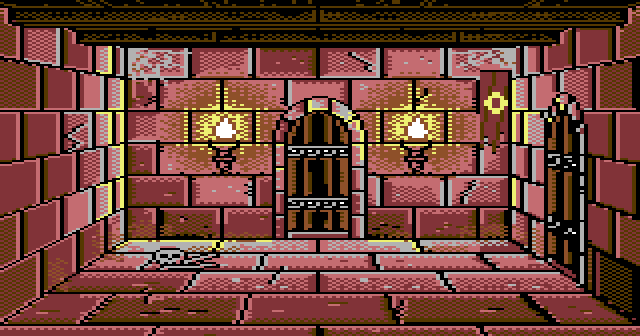
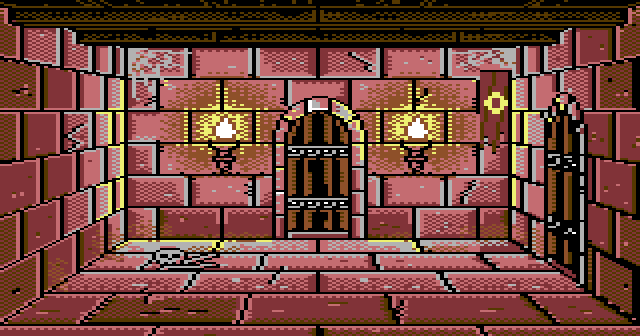
Catacombs rooms: grey stone levels, glow dim states, violet crypt theme, side-wall texture; GetWord runtime test

diff --git a/Catacombs/RoomArt.cs b/Catacombs/RoomArt.cs
@@ -1,34 +1,34 @@
 // Generated by art/room_art.py -- do not edit; change the script and run it again.
 using C64Lib;
 
-[assembly: RawImage(Resource = "room.img", Label = "Room")]   // 4162 bytes
-[assembly: RawImage(Resource = "door_n.img", Label = "DoorN")]   // 517 bytes
-[assembly: RawImage(Resource = "door_n2.img", Label = "DoorN2")]   // 258 bytes
-[assembly: RawImage(Resource = "door_n3.img", Label = "DoorN3")]   // 204 bytes
-[assembly: RawImage(Resource = "door_n4.img", Label = "DoorN4")]   // 139 bytes
-[assembly: RawImage(Resource = "door_w.img", Label = "DoorW")]   // 497 bytes
-[assembly: RawImage(Resource = "door_e.img", Label = "DoorE")]   // 484 bytes
-[assembly: RawImage(Resource = "door_s.img", Label = "DoorS")]   // 188 bytes
-[assembly: RawImage(Resource = "prop_chains.img", Label = "Chains")]   // 202 bytes
+[assembly: RawImage(Resource = "room.img", Label = "Room")]   // 4273 bytes
+[assembly: RawImage(Resource = "door_n.img", Label = "DoorN")]   // 501 bytes
+[assembly: RawImage(Resource = "door_n2.img", Label = "DoorN2")]   // 251 bytes
+[assembly: RawImage(Resource = "door_n3.img", Label = "DoorN3")]   // 216 bytes
+[assembly: RawImage(Resource = "door_n4.img", Label = "DoorN4")]   // 146 bytes
+[assembly: RawImage(Resource = "door_w.img", Label = "DoorW")]   // 516 bytes
+[assembly: RawImage(Resource = "door_e.img", Label = "DoorE")]   // 476 bytes
+[assembly: RawImage(Resource = "door_s.img", Label = "DoorS")]   // 190 bytes
+[assembly: RawImage(Resource = "prop_chains.img", Label = "Chains")]   // 201 bytes
 [assembly: RawImage(Resource = "prop_banner.img", Label = "Banner")]   // 162 bytes
 [assembly: RawImage(Resource = "prop_bones.img", Label = "Bones")]   // 115 bytes
 [assembly: RawImage(Resource = "prop_puddle.img", Label = "Puddle")]   // 199 bytes
-[assembly: RawImage(Resource = "prop_grate.img", Label = "Grate")]   // 157 bytes
+[assembly: RawImage(Resource = "prop_grate.img", Label = "Grate")]   // 155 bytes
 [assembly: RawImage(Resource = "flame0.img", Label = "Flame0")]   // 54 bytes
 [assembly: RawImage(Resource = "flame1.img", Label = "Flame1")]   // 54 bytes
 [assembly: RawImage(Resource = "flame2.img", Label = "Flame2")]   // 54 bytes
-[assembly: RawImage(Resource = "glow00.img", Label = "Glow00")]   // 40 bytes
-[assembly: RawImage(Resource = "glow01.img", Label = "Glow01")]   // 47 bytes
-[assembly: RawImage(Resource = "glow02.img", Label = "Glow02")]   // 47 bytes
+[assembly: RawImage(Resource = "glow00.img", Label = "Glow00")]   // 44 bytes
+[assembly: RawImage(Resource = "glow01.img", Label = "Glow01")]   // 51 bytes
+[assembly: RawImage(Resource = "glow02.img", Label = "Glow02")]   // 51 bytes
 [assembly: RawImage(Resource = "glow10.img", Label = "Glow10")]   // 41 bytes
-[assembly: RawImage(Resource = "glow11.img", Label = "Glow11")]   // 45 bytes
-[assembly: RawImage(Resource = "glow12.img", Label = "Glow12")]   // 45 bytes
+[assembly: RawImage(Resource = "glow11.img", Label = "Glow11")]   // 47 bytes
+[assembly: RawImage(Resource = "glow12.img", Label = "Glow12")]   // 49 bytes
 
 [assembly: RawAssembly(Asm = @"
 ; room themes: 16-byte colour tables for Screen.RemapCellColors (theme 0 = as drawn, no table)
 pal_Theme1     .byte 0,1,2,3,4,15,6,7,8,9,10,11,14,13,14,3   ; Cold
 pal_Theme2     .byte 0,1,2,3,4,8,9,7,8,9,10,2,10,13,14,15   ; Rust
-pal_Theme3     .byte 0,1,2,3,4,10,6,7,8,9,10,4,14,13,14,3   ; Crypt
+pal_Theme3     .byte 0,1,2,3,4,10,4,7,8,9,10,4,14,13,14,15   ; Crypt
 pal_Theme4     .byte 0,1,2,3,4,9,9,7,8,9,10,12,15,13,14,1   ; Bone
 ; pictures and tables by index (see DungeonView.cs): doors, props, door opening, flames,
 ; glow states of torch 0 and of torch 1, theme tables 1..

diff --git a/Catacombs/art/room_art.py b/Catacombs/art/room_art.py
@@ -205,7 +205,7 @@ def sample(sx, sy, cfg):
         course = int(v // 16.0)
         off = 16.0 if course & 1 else 0.0
         idx = int((u + off) // 32.0)
-        bias = -0.5 if course == 5 else 0.0
+        bias = -0.3 if course == 5 else 0.0
         return (('fw', course, idx), STONE, (u + off) % 32.0 / 2.0, v % 16.0, bias) + pos
     if s in ('left', 'right'):
         w, v = ZF - z, y - YC
@@ -216,7 +216,7 @@ def sample(sx, sy, cfg):
         course = int(v // 16.0)
         off = 0.0 if course & 1 else 16.0
         idx = int((w + off) // 32.0)
-        bias = -0.5 if course == 5 else 0.0
+        bias = -0.3 if course == 5 else 0.0
         return ((s, course, idx), STONE, (w + off) % 32.0 / 2.0, v % 16.0, bias) + pos
     if s == 'floor':
         u, w = x + XW, ZF - z
@@ -296,7 +296,7 @@ def wood_tex(a, b, rid):
 
 NORMALS = {'fw': (0, 0, -1), 'dn': (0, 0, -1), 'left': (1, 0, 0), 'dw': (1, 0, 0), 'right': (-1, 0, 0),
            'de': (-1, 0, 0), 'fl': (0, -1, 0), 'ce': (0, 1, 0), 'bf': (0, 0, -1.0001), 'bb': (0, 1, 0)}
-AMBIENT = {'fw': 0.135, 'dn': 0.135, 'left': 0.19, 'right': 0.19, 'dw': 0.19, 'de': 0.19,
+AMBIENT = {'fw': 0.165, 'dn': 0.165, 'left': 0.19, 'right': 0.19, 'dw': 0.19, 'de': 0.19,
            'fl': 0.20, 'ce': 0.13, 'bf': 0.17, 'bb': 0.10}
 
 
@@ -641,7 +641,9 @@ def render(cfg):
             elif fv_ == 1 or fh_ == 1:
                 tone = 1.0
             elif mat == STONE and rid[0] in PLAIN:
-                pass
+                d_ = TILES[hv % len(TILES)][int(tb) & 15][int(ta) & 15]
+                if d_ and min(lv_, lh_, fv_, fh_) > 2:
+                    tone = 2.0 + d_
             elif mat == STONE:
                 if lv_ == 2:
                     tone += 0.5
@@ -666,7 +668,7 @@ def render(cfg):
                     tone = 3.0
 
             sx, sy = 2 * mx + 1.0, my + 0.5
-            jitter = ((hv >> 8) % 100) / 100.0 * 0.7 - 0.35
+            jitter = ((hv >> 8) % 100) / 100.0 * 0.44 - 0.22
             hot = hot_light(sx, sy) if rid[0] == 'fw' else None
             if hot is not None:
                 ramp = HOT
@@ -838,7 +840,7 @@ THEMES = [
     ("Moss", theme()),                                   # the picture as drawn: grey stone, green moss
     ("Cold", theme(c12=14, c15=3, c5=15)),               # blue-grey stone, pale lichen
     ("Rust", theme(c6=9, c11=2, c12=10, c5=8)),          # red stone, rust stains
-    ("Crypt", theme(c11=4, c12=14, c15=3, c5=10)),       # violet crypt
+    ("Crypt", theme(c6=4, c11=4, c12=14, c5=10)),        # violet crypt
     ("Bone", theme(c6=9, c11=12, c12=15, c15=1, c5=9)),  # pale, dry stone
 ]
 PROPS = ['chains', 'banner', 'bones', 'puddle', 'grate']
@@ -978,10 +980,10 @@ def main():
     print("glow cells %s, %d re-encoded, room %d bytes" % ([len(g) for g in glow], moved, table[0][3]))
 
     def glow_colour(state, d):
-        if state == 1:                                    # flare: the inner ring turns yellow
-            return 7 if d <= 14 else 8
-        if state == 2:                                    # dim: the outer ring turns brown
-            return 9 if d > 14 else 8
+        if state == 1:                                    # dim: the outer ring turns brown
+            return 9 if d > 24 else 8
+        if state == 2:                                    # dimmer: all but the cells next to the flame
+            return 9 if d > 15 else 8
         return 8
 
     glow_images = []

diff --git a/Test.Runtime/GetWordTests.cs b/Test.Runtime/GetWordTests.cs
@@ -1,0 +1,27 @@
+using C64Lib;
+using NUnit.Framework;
+using Assert = C64TestFramework.Assert;
+
+namespace Compiler.RuntimeTest;
+
+// C64.GetWord(address, index): the 16-bit value (low byte first) at
+// address + index * 2 -- asm/C64.asm's C64_GetWord.
+[TestFixture]
+public class GetWordTests
+{
+    [Test]
+    public void GetWord_Reads_Low_Byte_First_At_Twice_The_Index()
+    {
+        // FillMemory writes offsets 1..size: after these two, offset 2 holds
+        // $34 and offset 3 holds $12, i.e. word 1 is $1234.
+        C64.FillMemory(0x0400UL, 0x12, 3);
+        C64.FillMemory(0x0400UL, 0x34, 2);
+        if (C64.GetWord(0x0400UL, 1) != 0x1234UL)
+            Assert.Fail();
+
+        // Word 0 is offsets 0 and 1: $34 high, whatever cleared byte low.
+        C64.FillMemory(0x0400UL - 1UL, 0x56, 1);
+        if (C64.GetWord(0x0400UL, 0) != 0x3456UL)
+            Assert.Fail();
+    }
+}
